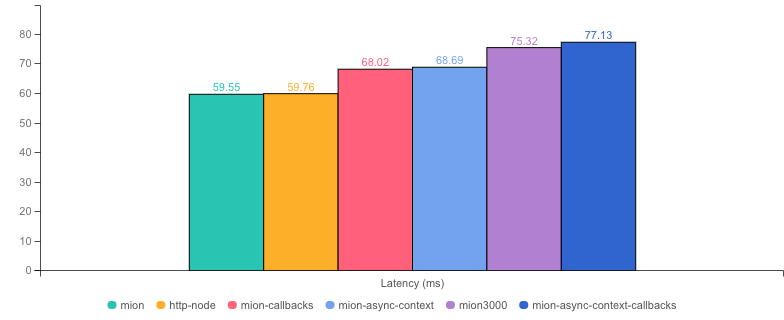
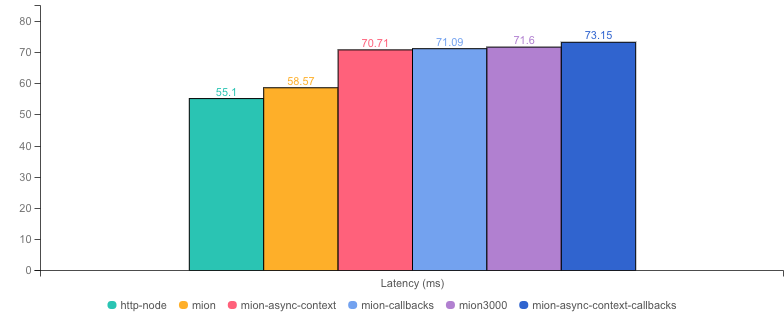
run benchmarks in latest verion

diff --git a/README.md b/README.md
@@ -89,51 +89,41 @@ mion is focused on being lightweight and fast so it can be run in serverless env
 
 Our goal is to perform similar to fastify as it is the industry standard in terms of performance. Please always take benchmarks as general guidelines as you might obtain different results in your real world application. we just run the benchmarks to ensure there is no performance degradation when new features/fixes are added to mion.
 
-We are aware that the memory consumption is higher than other frameworks, this said it is mostly the baseline memory (when the server just started) and mion is actually less memory hungry under heavy workloads. This is due mostly due to our dependency on @deepkit/types for run time types. We are aware of this and plan to work on it in the future. Please note both mion and deepkit are still in beta an there is room for improvement.
+We are aware that the memory consumption is higher than other frameworks, this is mostly because there is [types cache](https://docs.deepkit.io/english/runtime-types.html#_type_cache) storing all extra run type metadata of the code. This means it is only the baseline memory which is Higher (when the code gets loaded) and mion memory keeps steady under heavy workloads. This is due mostly due to our dependency on @deepkit/types for run time types. We are aware of this and plan to work on it in the future. Please note both mion and deepkit are still in beta an there is room for improvement.
 
 ## Benchmark Results
 
-* __Machine:__ darwin x64 | 8 vCPUs | 16.0GB Mem
-* __Node:__ `v16.18.0`
-* __Run:__ Tue Jul 18 2023 22:01:37 GMT+0100 (Irish Standard Time)
-* __Method:__ `autocannon -c 100 -d 40.24 -p 10 localhost:3000` (two rounds; one to warm-up, one to measure)
+- **Machine:** darwin x64 | 8 vCPUs | 16.0GB Mem
+- **Node:** `v16.18.0`
+- **Run:** Tue Jul 18 2023 23:38:05 GMT+0100 (Irish Standard Time)
+- **Method:** `autocannon -c 100 -d 40.05 -p 10 localhost:3000` (two rounds; one to warm-up, one to measure)
 
-#### Req (R/s) 
+#### Req (R/s)
 
 ![benchmarks](assets/public/charts-servers/requests.png)
 
-
-
-#### Throughput (Mb/s) 
+#### Throughput (Mb/s)
 
 ![benchmarks](assets/public/charts-servers/throughput.png)
 
-
-
-#### Latency (ms) 
+#### Latency (ms)
 
 ![benchmarks](assets/public/charts-servers/latency.png)
 
-
-
-#### Max Memory (Mb) 
+#### Max Memory (Mb)
 
 ![benchmarks](assets/public/charts-servers/maxMem.png)
 
-
-
-#### Memory Series (MB) 
+#### Memory Series (MB)
 
 ![benchmarks](assets/public/charts-servers/memSeries.png)
 
-
-
-|           | Version        | Router | Req (R/s)   | Latency (ms) | Output (Mb/s) | Max Memory (Mb) | Max Cpu (%) | Validation | Description                                                                                                |
-| :--       | --:            | --:    | :-:         | --:          | --:           | --:             | --:         | :-:        | :--                                                                                                        |
-| http-node | 16.18.0        | ✗      | 16419.9     | 60.70        | 4.20          | 79              | 120         | ✗          | Super basic and completely useless bare http server, should be the theoretical upper limit in performance. |
-| **mion**  | **0.1.0**      | **✓**  | **16289.9** | **60.91**    | **4.52**      | **229**         | **144**     | **✓**      | **validation and serialization out of the box**                                                            |
-| fastify   | 4.19.2         | ✓      | 14725.8     | 67.41        | 3.78          | 88              | 118         | -          | Validation is done using schemas and ajv. Schemas must be generated manually or using third party tools.   |
-| restify   | 8.6.1          | ✓      | 11138.1     | 89.26        | 2.87          | 102             | 116         | ✗          | Requires third party tools.                                                                                |
-| hapi      | 20.3.0         | ✓      | 6941.5      | 143.40       | 1.77          | 102             | 135         | ✗          | Manual validation using joi, or third party tools.                                                         |
-| deepkit   | 1.0.1-alpha.75 | ✓      | 5289.1      | 188.17       | 1.35          | 318             | 159         | ✓          | Automatic validation out of the box (The ones that made @deepkit/types), Their rpc is way more performant. |
-| express   | 4.18.2         | ✓      | 4399.4      | 226.40       | 1.12          | 112             | 124         | ✗          | needs third party tools, or third party tools                                                              |
+|           |        Version | Router |  Req (R/s)  | Latency (ms) | Output (Mb/s) | Max Memory (Mb) | Max Cpu (%) | Validation | Description                                                                                                |
+| :-------- | -------------: | -----: | :---------: | -----------: | ------------: | --------------: | ----------: | :--------: | :--------------------------------------------------------------------------------------------------------- |
+| http-node |        16.18.0 |      ✗ |   17714.6   |        55.97 |          4.53 |              79 |         119 |     ✗      | Super basic and completely useless bare http server, should be the theoretical upper limit in performance. |
+| **mion**  |      **0.1.0** |  **✓** | **17575.1** |    **56.41** |      **4.88** |         **212** |     **147** |   **✓**    | **validation and serialization out of the box**                                                            |
+| fastify   |         4.19.2 |      ✓ |   14178.2   |        70.08 |          3.64 |              88 |         119 |     -      | Validation is done using schemas and ajv. Schemas must be generated manually or using third party tools.   |
+| restify   |          8.6.1 |      ✓ |   12171.2   |        81.61 |          3.13 |              93 |         123 |     ✗      | Requires third party tools.                                                                                |
+| hapi      |         20.3.0 |      ✓ |   7317.3    |       135.93 |          1.87 |              99 |         125 |     ✗      | Manual validation using joi, or third party tools.                                                         |
+| deepkit   | 1.0.1-alpha.75 |      ✓ |   5479.4    |       181.67 |          1.40 |             316 |         149 |     ✓      | Automatic validation out of the box (The ones that made @deepkit/types), Their rpc is way more performant. |
+| express   |         4.18.2 |      ✓ |   4247.6    |       234.42 |          1.09 |             112 |         115 |     ✗      | needs third party tools, or third party tools                                                              |

diff --git a/MION-OPTIONS.md b/MION-OPTIONS.md
@@ -28,8 +28,8 @@ We show the benchmarks and let you take your own conclusions!!
 
 * __Machine:__ darwin x64 | 8 vCPUs | 16.0GB Mem
 * __Node:__ `v16.18.0`
-* __Run:__ Tue Jul 18 2023 21:51:52 GMT+0100 (Irish Standard Time)
-* __Method:__ `autocannon -c 100 -d 40.06 -p 10 localhost:3000` (two rounds; one to warm-up, one to measure)
+* __Run:__ Tue Jul 18 2023 23:30:58 GMT+0100 (Irish Standard Time)
+* __Method:__ `autocannon -c 100 -d 40.02 -p 10 localhost:3000` (two rounds; one to warm-up, one to measure)
 
 #### Req (R/s) 
 
@@ -55,6 +55,12 @@ We show the benchmarks and let you take your own conclusions!!
 
 
 
+#### Max Cpu (%) 
+
+![benchmarks](assets/public/charts-mion/maxCpu.png)
+
+
+
 #### Memory Series (MB) 
 
 ![benchmarks](assets/public/charts-mion/memSeries.png)
@@ -63,9 +69,9 @@ We show the benchmarks and let you take your own conclusions!!
 
 |                              | Version   | Router | Req (R/s)   | Latency (ms) | Output (Mb/s) | Max Memory (Mb) | Max Cpu (%) | Validation | Description                                                                                     |
 | :--                          | --:       | --:    | :-:         | --:          | --:           | --:             | --:         | :-:        | :--                                                                                             |
-| **mion**                     | **0.1.0** | **✓**  | **16661.1** | **59.55**    | **4.62**      | **226**         | **148**     | **✓**      | **using mion http with promises `HttpOptions.useCallbacks = false`**                            |
-| http-node                    | 16.18.0   | ✗      | 16592.8     | 59.76        | 4.24          | 83              | 129         | ✗          | theoretical upper limit in performance.                                                         |
-| mion-callbacks               | 0.1.0     | ✓      | 14586.0     | 68.02        | 4.63          | 102             | 136         | ✓          | using mion http with callbacks `HttpOptions.useCallbacks = true`                                |
-| mion-async-context           | 0.1.0     | ✓      | 14445.4     | 68.69        | 4.59          | 104             | 119         | ✓          | using mion http with promises and sync call context `RouterOptions.useAsyncCallContext = true`  |
-| mion3000                     | 0.1.0     | ✓      | 13186.4     | 75.32        | 4.19          | 209             | 143         | ✓          | mion with 3000 routes loaded (should have the most memory usage)                                |
-| mion-async-context-callbacks | 0.1.0     | ✓      | 12873.0     | 77.13        | 4.09          | 206             | 140         | ✓          | using mion http with callbacks and sync call context `RouterOptions.useAsyncCallContext = true` |
+| http-node                    | 16.18.0   | ✗      | 17976.3     | 55.10        | 4.59          | 83              | 123         | ✗          | theoretical upper limit in performance.                                                         |
+| **mion**                     | **0.1.0** | **✓**  | **16923.6** | **58.57**    | **4.70**      | **225**         | **148**     | **✓**      | **using mion http with promises `HttpOptions.useCallbacks = false`**                            |
+| mion-async-context           | 0.1.0     | ✓      | 14034.8     | 70.71        | 4.46          | 182             | 141         | ✓          | using mion http with promises and sync call context `RouterOptions.useAsyncCallContext = true`  |
+| mion-callbacks               | 0.1.0     | ✓      | 13963.2     | 71.09        | 4.43          | 202             | 141         | ✓          | using mion http with callbacks `HttpOptions.useCallbacks = true`                                |
+| mion3000                     | 0.1.0     | ✓      | 13861.4     | 71.60        | 4.40          | 108             | 139         | ✓          | mion with 3000 routes loaded (should have the most memory usage)                                |
+| mion-async-context-callbacks | 0.1.0     | ✓      | 13572.0     | 73.15        | 4.31          | 205             | 142         | ✓          | using mion http with callbacks and sync call context `RouterOptions.useAsyncCallContext = true` |

diff --git a/METRICS.md b/METRICS.md
@@ -9,7 +9,7 @@ Cold start times are measure using the http server but are also indicative of ho
 ## Metrics
 * __Machine:__ darwin x64 | 8 vCPUs | 16.0GB Mem
 * __Node:__ `v16.18.0`
-* __Run:__ Tue Jul 18 2023 21:26:55 GMT+0100 (Irish Standard Time)
+* __Run:__ Tue Jul 18 2023 23:41:34 GMT+0100 (Irish Standard Time)
 * __Method:__ `npm run metrics` (samples: 5)
 * __startup:__ time elapsed to setup the application
 * __listen:__ time elapsed until the http server is ready to accept requests (cold start)
@@ -22,28 +22,28 @@ Cold start times are measure using the http server but are also indicative of ho
 
   | | startup(ms) | listen(ms) |
   |-| -           | -          |
-| 10-startup-deepkit-routes.js | 1469 | 1471 |
+| 10-startup-deepkit-routes.js | 1470 | 1471 |
 | 10-startup-fastify-routes.js | 152 | 224 |
-| 10-startup-mion-routes.js | 550 | 556 |
-| 100-startup-deepkit-routes.js | 1454 | 1455 |
-| 100-startup-fastify-routes.js | 168 | 345 |
-| 100-startup-mion-routes.js | 547 | 555 |
-| 500-startup-deepkit-routes.js | 1462 | 1464 |
-| 500-startup-fastify-routes.js | 256 | 803 |
+| 10-startup-mion-routes.js | 548 | 555 |
+| 100-startup-deepkit-routes.js | 1465 | 1466 |
+| 100-startup-fastify-routes.js | 169 | 346 |
+| 100-startup-mion-routes.js | 546 | 554 |
+| 500-startup-deepkit-routes.js | 1469 | 1471 |
+| 500-startup-fastify-routes.js | 257 | 807 |
 | 500-startup-mion-routes.js | 546 | 556 |
-| 1000-startup-deepkit-routes.js | 1483 | 1484 |
-| 1000-startup-fastify-routes.js | 355 | 1343 |
-| 1000-startup-mion-routes.js | 550 | 564 |
-| 2000-startup-deepkit-routes.js | 1472 | 1474 |
-| 2000-startup-fastify-routes.js | 570 | 2444 |
-| 2000-startup-mion-routes.js | 549 | 576 |
-| 3000-startup-deepkit-routes.js | 1482 | 1484 |
-| 3000-startup-fastify-routes.js | 836 | 3662 |
+| 1000-startup-deepkit-routes.js | 1487 | 1489 |
+| 1000-startup-fastify-routes.js | 357 | 1352 |
+| 1000-startup-mion-routes.js | 550 | 563 |
+| 2000-startup-deepkit-routes.js | 1476 | 1477 |
+| 2000-startup-fastify-routes.js | 571 | 2451 |
+| 2000-startup-mion-routes.js | 548 | 575 |
+| 3000-startup-deepkit-routes.js | 1484 | 1485 |
+| 3000-startup-fastify-routes.js | 836 | 3681 |
 | 3000-startup-mion-routes.js | 548 | 583 |
-| 4000-startup-deepkit-routes.js | 1510 | 1511 |
-| 4000-startup-fastify-routes.js | 1241 | 4904 |
-| 4000-startup-mion-routes.js | 546 | 585 |
-| 5000-startup-deepkit-routes.js | 1496 | 1497 |
-| 5000-startup-fastify-routes.js | 1779 | 6365 |
-| 5000-startup-mion-routes.js | 559 | 605 |
-| startup-listen.js | 586 | 589 |
+| 4000-startup-deepkit-routes.js | 1515 | 1516 |
+| 4000-startup-fastify-routes.js | 1256 | 4952 |
+| 4000-startup-mion-routes.js | 545 | 584 |
+| 5000-startup-deepkit-routes.js | 1502 | 1504 |
+| 5000-startup-fastify-routes.js | 1791 | 6416 |
+| 5000-startup-mion-routes.js | 557 | 603 |
+| startup-listen.js | 582 | 585 |
